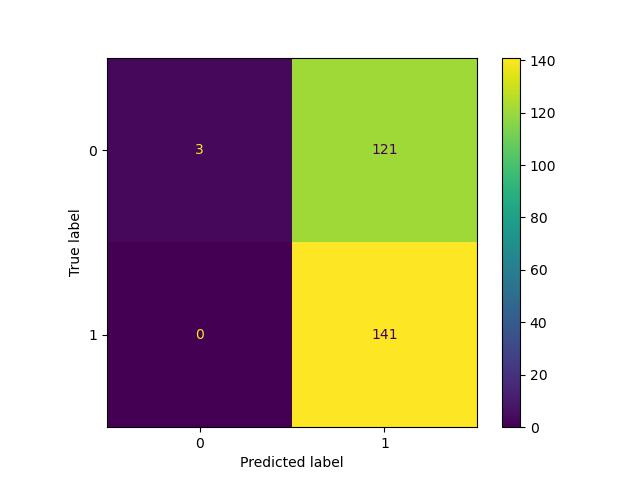
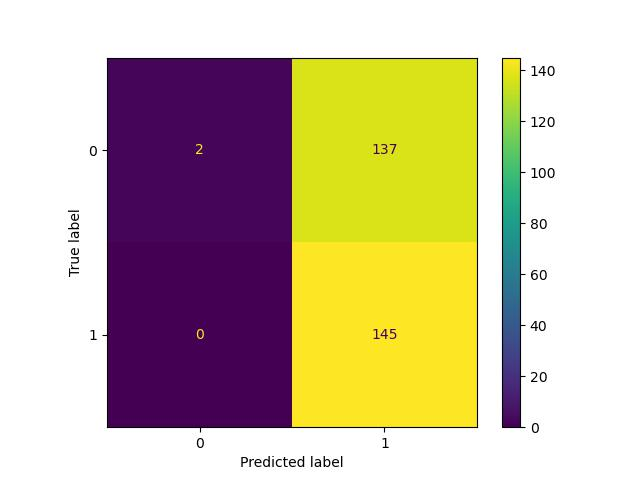
add 100_reg

diff --git a/stock_utils/stock_utils.py b/stock_utils/stock_utils.py
@@ -134,6 +134,7 @@ def create_train_data(ticker, start_date = None, end_date = None, n = 10):
     data = n_day_regression(10, data, list(idxs_with_mins) + list(idxs_with_maxs))
     data = n_day_regression(20, data, list(idxs_with_mins) + list(idxs_with_maxs))
     data = n_day_regression(50, data, list(idxs_with_mins) + list(idxs_with_maxs))
+    data = n_day_regression(100, data, list(idxs_with_mins) + list(idxs_with_maxs))
 
     _data_ = data[(data['loc_min'] > 0) | (data['loc_max'] > 0)].reset_index(drop = True)
 
@@ -141,7 +142,7 @@ def create_train_data(ticker, start_date = None, end_date = None, n = 10):
     _data_['target'] = [1 if x > 0 else 0 for x in _data_['loc_max']]
 
     #columns of interest
-    cols_of_interest = ['Volume', 'normalized_value', '3_reg', '5_reg', '10_reg', '20_reg', '50_reg', 'target']
+    cols_of_interest = ['Volume', 'normalized_value', '3_reg', '5_reg', '10_reg', '20_reg', '50_reg', '100_reg', 'target']
     _data_ = _data_[cols_of_interest]
 
     return _data_.dropna(axis = 0)
@@ -157,8 +158,9 @@ def create_test_data_lr(ticker, start_date = None, end_date = None, n = 10):
     data = n_day_regression(10, data, idxs)
     data = n_day_regression(20, data, idxs)
     data = n_day_regression(50, data, idxs)
+    data = n_day_regression(100, data, idxs)
 
-    cols = ['Close', 'Volume', 'normalized_value', '3_reg', '5_reg', '10_reg', '20_reg', '50_reg']
+    cols = ['Close', 'Volume', 'normalized_value', '3_reg', '5_reg', '10_reg', '20_reg', '50_reg', '100_reg']
     data = data[cols]
 
     return data.dropna(axis = 0)
@@ -174,8 +176,9 @@ def create_realtime_data_lr(ticker, n = 10):
     data = n_day_regression(10, data, idxs)
     data = n_day_regression(20, data, idxs)
     data = n_day_regression(50, data, idxs)
+    data = n_day_regression(100, data, idxs)
 
-    cols = ['Close', 'Volume', 'normalized_value', '3_reg', '5_reg', '10_reg', '20_reg', '50_reg']
+    cols = ['Close', 'Volume', 'normalized_value', '3_reg', '5_reg', '10_reg', '20_reg', '50_reg', '100_reg']
     data = data[cols]
 
     return data.dropna(axis = 0)
@@ -192,12 +195,13 @@ def predict_trend(ticker, _model_, start_date = None, end_date = None, n = 10):
     data = n_day_regression(10, data, idxs)
     data = n_day_regression(20, data, idxs)
     data = n_day_regression(50, data, idxs)
+    data = n_day_regression(100, data, idxs)
 
     #create a column for predicted value
     data['pred'] = np.nan
 
     #get data
-    cols = ['Volume', 'normalized_value', '3_reg', '5_reg', '10_reg', '20_reg', '50_reg']
+    cols = ['Volume', 'normalized_value', '3_reg', '5_reg', '10_reg', '20_reg', '50_reg', '100_reg']
     x = data[cols]
 
     #scale the x data

diff --git a/models/lr_inference.py b/models/lr_inference.py
@@ -46,7 +46,7 @@ def LR_v1_predict(stock, start_date, end_date, threshold = 0.98, data_type='real
     close_price = data['Close'].values[-1]
 
     #get input data to model
-    input_data = data[['Volume', 'normalized_value', '3_reg', '5_reg', '10_reg', '20_reg', '50_reg']]
+    input_data = data[['Volume', 'normalized_value', '3_reg', '5_reg', '10_reg', '20_reg', '50_reg', '100_reg']]
     input_data = input_data.to_numpy()[-1].reshape(1, -1)
 
     #scale input data

diff --git a/models/lr_run_training.py b/models/lr_run_training.py
@@ -53,7 +53,7 @@ class LR_training:
         self.stocks = list(np.unique(stocks))
 
         #main dataframe
-        self.main_df = pd.DataFrame(columns = ['Volume', 'normalized_value', '3_reg', '5_reg', '10_reg', '20_reg', '50_reg', 'target'])
+        self.main_df = pd.DataFrame(columns = ['Volume', 'normalized_value', '3_reg', '5_reg', '10_reg', '20_reg', '50_reg', '100_reg', 'target'])
 
         # init models
         self.scalar = MinMaxScaler()

diff --git a/backtester.py b/backtester.py
@@ -115,7 +115,7 @@ class backtester(simulator):
         self.save_results()
         return
     
-    def get_stock_data(self, stock, back_to = 50):
+    def get_stock_data(self, stock, back_to = 100):
         """
         this function queries to yf and get data of a particular stock on a given day back to certain amount of days
         (default is 30)
